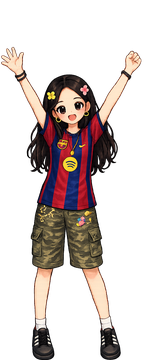
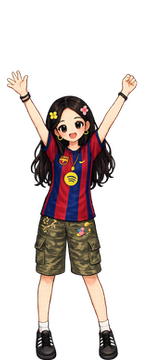
分享弹层真的浮起来，立绘在所有姿态下一样大
两个用户实测报出来的问题。

分享图鉴渲染在原卡片下方而不是浮层：.share-card 是 absolute，原地渲染时
它找到的定位祖先在详情页的滚动内容里，于是跟着内容排版和滚动。改成 portal
到 .pixel-screen，absolute 才解析到整屏。没有用 fixed——那会跑出演示手机的
外壳。拿不到宿主时（单测直接渲染组件）就地渲染，行为不变。

立绘尺寸在切换姿态时会变：cheer 帧在 crew-glasses 上头到脚 308px，而 idle
是 281px，差 9.6%；世界按画布高度缩放贴图，所以人物在欢呼时肉眼可见地变大。
pixel_sprite.py 是逐张单独归一的，管不到同一个角色不同姿态之间的一致性。

新增 scripts/pixel_pose_normalize.py：以每个角色自己的 idle 为基准，锚定脚底
重新缩放其余姿态，画布尺寸和脚底行都不动，接地阴影不会跳。6 帧被修正，
复检全部落回 280–282。--check 模式只报不写，可以进 CI。

test_pose_sizes.py 把这条不变量钉在真实素材上——这个问题对现有所有测试都是
不可见的，只有真机演示才看得出来。

Changed region(s): [[0.0, 0.1222, 0.96, 1.0]]

diff --git a/apps/h5/src/features/outfit/ShareCardSheet.tsx b/apps/h5/src/features/outfit/ShareCardSheet.tsx
@@ -1,4 +1,5 @@
 import { useState } from "react";
+import { createPortal } from "react-dom";
 
 import { PixelButton } from "../../components/PixelUI";
 
@@ -45,7 +46,18 @@ export function ShareCardSheet({
     }
   }
 
-  return (
+  /*
+   * 这层是 position:absolute，它找的是最近的定位祖先。原地渲染时那个祖先在
+   * 详情页的滚动内容里，于是弹层落在了卡片下方、跟着内容滚。挂到 .pixel-screen
+   * 上才会真的浮在整屏之上，同时不会跑出演示手机的外壳（fixed 会）。
+   * 拿不到宿主时（单测里直接渲染组件）就地渲染，行为不变。
+   */
+  const host =
+    typeof document === "undefined"
+      ? null
+      : document.querySelector(".pixel-screen");
+
+  const sheet = (
     <div className="share-card" role="dialog" aria-label="分享图鉴" aria-modal="true">
       <div className="share-card__inner">
         <div className="share-card__paper">
@@ -106,4 +118,6 @@ export function ShareCardSheet({
       </div>
     </div>
   );
+
+  return host ? createPortal(sheet, host) : sheet;
 }

diff --git a/apps/h5/tests/share-card-sheet.test.tsx b/apps/h5/tests/share-card-sheet.test.tsx
@@ -90,4 +90,19 @@ describe("share card sheet", () => {
     await user.click(screen.getByRole("button", { name: "关闭" }));
     expect(props.onClose).toHaveBeenCalledTimes(1);
   });
+
+  it("floats above the whole screen instead of sitting inside the page flow", () => {
+    // 弹层是 absolute，原地渲染时定位祖先在详情页的滚动内容里，结果落到卡片
+    // 下方还跟着滚。挂到 .pixel-screen 上才是真的浮层。
+    const screen_ = document.createElement("div");
+    screen_.className = "pixel-screen";
+    document.body.appendChild(screen_);
+    try {
+      renderSheet();
+      const dialog = screen.getByRole("dialog", { name: "分享图鉴" });
+      expect(screen_.contains(dialog)).toBe(true);
+    } finally {
+      screen_.remove();
+    }
+  });
 });

diff --git a/scripts/pixel_pose_normalize.py b/scripts/pixel_pose_normalize.py
@@ -1,0 +1,136 @@
+"""Make every pose of a character the same body size.
+
+`pixel_sprite.py` normalises each source portrait on its own. That is not enough:
+a character can be drawn larger in one pose than another in the source art, and
+the world scales sprites by frame height, so the figure visibly grows and shrinks
+as it switches between standing, waving and cheering.
+
+This pass takes each character's `idle` frame as the reference and rescales the
+other poses about the feet line until head-to-feet matches. Canvas size and the
+feet row are preserved, so the contact shadow and the ground line do not move.
+
+Run:  uv run python scripts/pixel_pose_normalize.py [--check]
+"""
+
+from __future__ import annotations
+
+import argparse
+import pathlib
+import sys
+
+from PIL import Image
+
+POSE_ROOT = pathlib.Path("apps/h5/public/assets/community/poses")
+REFERENCE_POSE = "idle"
+
+# Matched to pixel_sprite.py so both passes agree on what "the body" is.
+ALPHA_FLOOR = 40
+HEAD_WIDTH_RATIO = 0.35
+MIN_SOLID_RUN = 3
+SOLID_RUN_RATIO = 0.05
+
+# Below this the difference is invisible at world scale (sprites draw ~40px tall)
+# and rescaling would cost more resampling blur than it buys.
+TOLERANCE = 1.01
+
+
+def measure(image: Image.Image) -> tuple[int, int] | None:
+    """Return (head_top_row, feet_row) for the drawn body."""
+    width, height = image.size
+    alpha = image.getchannel("A").load()
+    runs = [
+        sum(1 for x in range(width) if alpha[x, y] > ALPHA_FLOOR)
+        for y in range(height)
+    ]
+    widest = max(runs) or 1
+    floor = max(MIN_SOLID_RUN, SOLID_RUN_RATIO * widest)
+    solid = [y for y, run in enumerate(runs) if run >= floor]
+    if not solid:
+        return None
+    feet = solid[-1]
+    head = next(
+        (y for y in range(height) if runs[y] >= HEAD_WIDTH_RATIO * widest),
+        solid[0],
+    )
+    return head, feet
+
+
+def body_height(image: Image.Image) -> int | None:
+    measured = measure(image)
+    return None if measured is None else measured[1] - measured[0] + 1
+
+
+def rescale_to(image: Image.Image, ratio: float) -> Image.Image:
+    """Scale the drawing by `ratio` while keeping the canvas and the feet row."""
+    width, height = image.size
+    measured = measure(image)
+    assert measured is not None
+    _, feet = measured
+
+    scaled = image.resize(
+        (max(1, round(width * ratio)), max(1, round(height * ratio))),
+        Image.LANCZOS,
+    )
+    canvas = Image.new("RGBA", (width, height), (0, 0, 0, 0))
+    # Keep the feet where they were so the shadow and ground contact do not move.
+    left = round((width - scaled.width) / 2)
+    top = round(feet - (feet * ratio))
+    canvas.paste(scaled, (left, top))
+    return canvas
+
+
+def main() -> int:
+    parser = argparse.ArgumentParser()
+    parser.add_argument(
+        "--check",
+        action="store_true",
+        help="report drift without writing; exit 1 if any character is uneven",
+    )
+    args = parser.parse_args()
+
+    if not POSE_ROOT.is_dir():
+        print(f"pose directory not found: {POSE_ROOT}", file=sys.stderr)
+        return 2
+
+    uneven = 0
+    for character in sorted(p for p in POSE_ROOT.iterdir() if p.is_dir()):
+        reference_path = character / f"{REFERENCE_POSE}.png"
+        if not reference_path.exists():
+            print(f"{character.name}: no {REFERENCE_POSE} frame, skipped")
+            continue
+        with Image.open(reference_path) as image:
+            target = body_height(image.convert("RGBA"))
+        if not target:
+            print(f"{character.name}: {REFERENCE_POSE} frame is empty, skipped")
+            continue
+
+        for pose_path in sorted(character.glob("*.png")):
+            if pose_path.stem == REFERENCE_POSE:
+                continue
+            with Image.open(pose_path) as opened:
+                image = opened.convert("RGBA")
+                current = body_height(image)
+                if not current:
+                    continue
+                drift = max(current, target) / min(current, target)
+                if drift <= TOLERANCE:
+                    continue
+                uneven += 1
+                label = f"{character.name}/{pose_path.stem}"
+                if args.check:
+                    print(f"{label}: {current}px vs {REFERENCE_POSE} {target}px")
+                    continue
+                fixed = rescale_to(image, target / current)
+                fixed.save(pose_path)
+                print(f"{label}: {current}px -> {body_height(fixed)}px")
+
+    if args.check and uneven:
+        print(f"\n{uneven} pose(s) differ from their idle frame", file=sys.stderr)
+        return 1
+    if not uneven:
+        print("every pose already matches its idle frame")
+    return 0
+
+
+if __name__ == "__main__":
+    raise SystemExit(main())

diff --git a/services/backend/tests/scripts/test_pose_sizes.py b/services/backend/tests/scripts/test_pose_sizes.py
@@ -1,0 +1,71 @@
+"""Every pose of a character must draw the body at one size.
+
+The world scales sprites by frame height, so a character drawn larger in one
+pose than another visibly grows and shrinks as it switches between standing,
+waving and cheering. That was reported from the demo, and it is invisible to
+every other test we have, so it is pinned here against the real assets.
+"""
+
+from __future__ import annotations
+
+import pathlib
+
+import pytest
+from PIL import Image
+
+REPOSITORY_ROOT = pathlib.Path(__file__).resolve().parents[4]
+POSE_ROOT = REPOSITORY_ROOT / "apps/h5/public/assets/community/poses"
+
+ALPHA_FLOOR = 40
+HEAD_WIDTH_RATIO = 0.35
+MIN_SOLID_RUN = 3
+SOLID_RUN_RATIO = 0.05
+TOLERANCE = 1.01
+
+
+def _body_height(path: pathlib.Path) -> int | None:
+    with Image.open(path) as opened:
+        image = opened.convert("RGBA")
+        width, height = image.size
+        alpha = image.getchannel("A").load()
+        runs = [
+            sum(1 for x in range(width) if alpha[x, y] > ALPHA_FLOOR)
+            for y in range(height)
+        ]
+    widest = max(runs) or 1
+    floor = max(MIN_SOLID_RUN, SOLID_RUN_RATIO * widest)
+    solid = [y for y, run in enumerate(runs) if run >= floor]
+    if not solid:
+        return None
+    head = next(
+        (y for y in range(height) if runs[y] >= HEAD_WIDTH_RATIO * widest),
+        solid[0],
+    )
+    return solid[-1] - head + 1
+
+
+def _characters() -> list[pathlib.Path]:
+    if not POSE_ROOT.is_dir():
+        return []
+    return sorted(path for path in POSE_ROOT.iterdir() if path.is_dir())
+
+
+@pytest.mark.parametrize(
+    "character", _characters(), ids=lambda path: path.name
+)
+def test_every_pose_matches_the_idle_body_size(character: pathlib.Path) -> None:
+    reference = character / "idle.png"
+    if not reference.exists():
+        pytest.skip(f"{character.name} has no idle frame")
+    target = _body_height(reference)
+    assert target, f"{character.name}/idle is empty"
+
+    for pose in sorted(character.glob("*.png")):
+        measured = _body_height(pose)
+        assert measured, f"{character.name}/{pose.stem} is empty"
+        drift = max(measured, target) / min(measured, target)
+        assert drift <= TOLERANCE, (
+            f"{character.name}/{pose.stem} draws the body {measured}px tall but "
+            f"idle draws it {target}px. Run "
+            f"`uv run python scripts/pixel_pose_normalize.py`."
+        )
